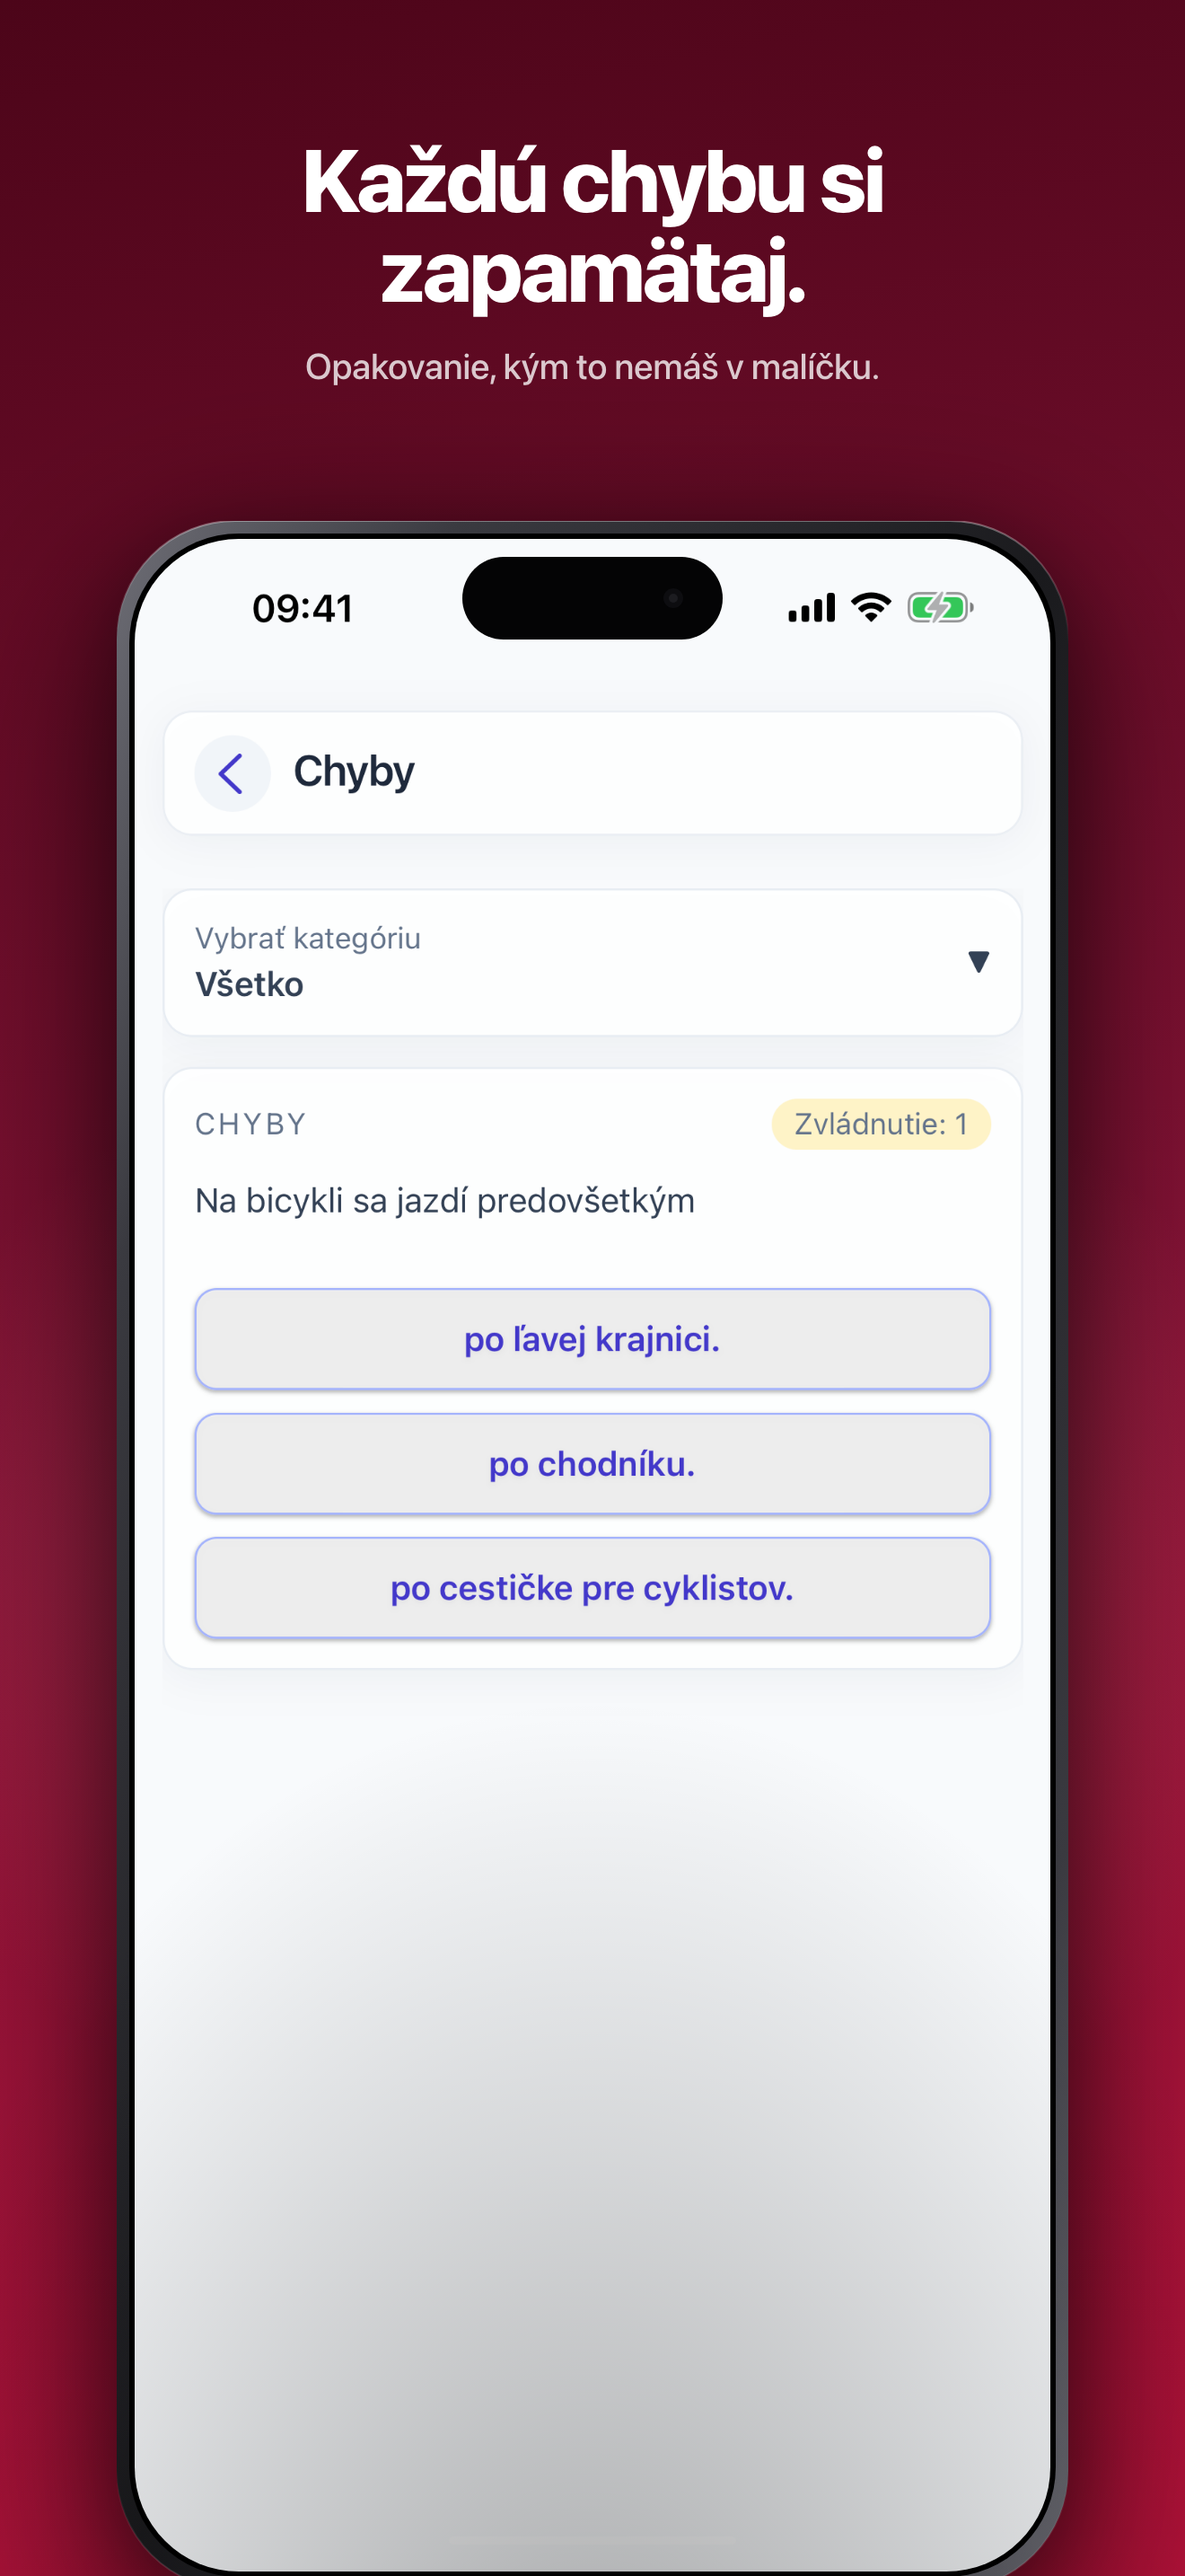
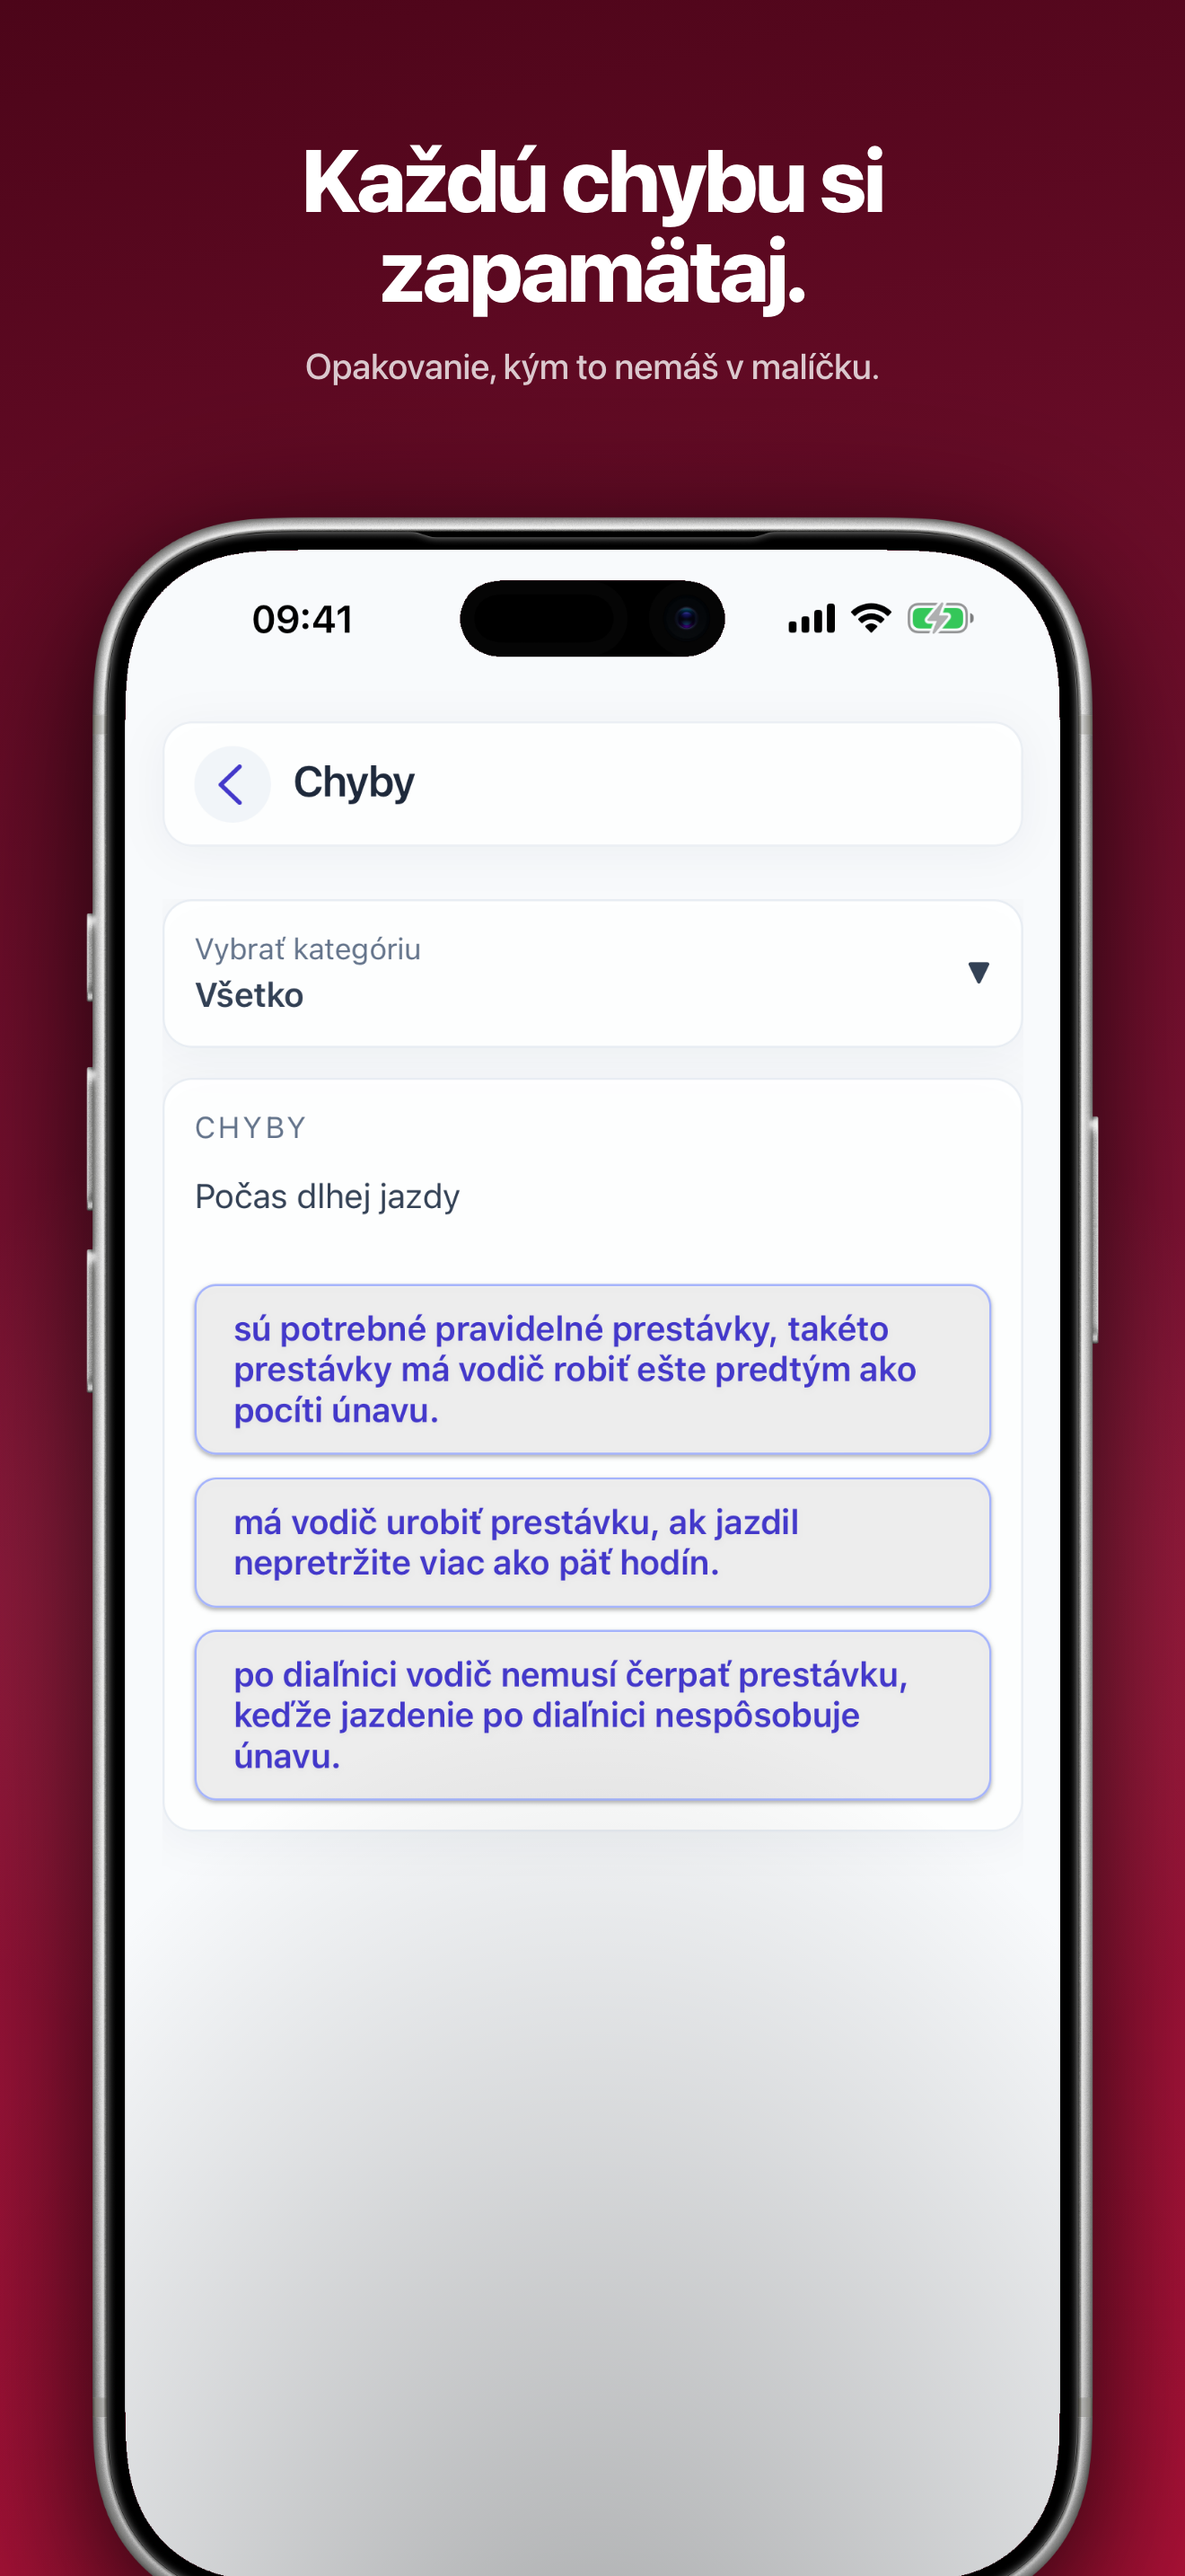
docs(appstore): regenerate mock + mistakes screenshots (EN/SK/HU)
- mock: pinned to a clean text-only question per language (EN t=62, SK t=97,
  HU t=15) instead of a random test whose Q1 was a low-res road sign
- mistakes: HU was broken ('question not found' — seeded EN id 1310 absent
  from HU); seed now uses only ids shared by all 3 banks AND text-only, so
  every language shows a real, image-free question
- adds capture-mock-mistakes.yaml + regen-mock-mistakes.sh for focused re-capture
- 6.5" (1242x2688) copies regenerated to match

diff --git a/docs/appstore/_tools/seed.js b/docs/appstore/_tools/seed.js
@@ -42,7 +42,10 @@ const bankIds = (bank) => {
 const skSet = bankIds(data[0]);
 const huSet = bankIds(data[2]);
 // Walk EN in order (deterministic selection) but keep only ids shared by all 3.
+// Track text-only ids separately: image presence is consistent across langs
+// for a shared id, so EN's obrazok flag is authoritative.
 const ids = [];
+const textOnlyIds = [];
 const seen = new Set();
 for (const test of data[1]) {
   const otazky = test.otazky || {};
@@ -50,12 +53,15 @@ for (const test of data[1]) {
     const q = otazky[k] && otazky[k][0];
     if (q && q.id != null && !seen.has(q.id) && skSet.has(q.id) && huSet.has(q.id)) {
       seen.add(q.id); ids.push(q.id);
+      if (!q.obrazok) textOnlyIds.push(q.id);
     }
   }
 }
 
 const POOL = ids.slice(0, 520);            // distinct ids -> coverage
-const MISTAKE_IDS = ids.slice(40, 47);     // 7 real ids for the mistakes screen
+// 7 text-only ids: the Mistakes screen shuffles among these, so all must be
+// image-free to avoid rendering a low-res official road-sign scan.
+const MISTAKE_IDS = textOnlyIds.slice(40, 47);
 const DEVICE = 'seed-device';
 const DAY = 86400;
 const now = Math.floor(Date.now() / 1000);
